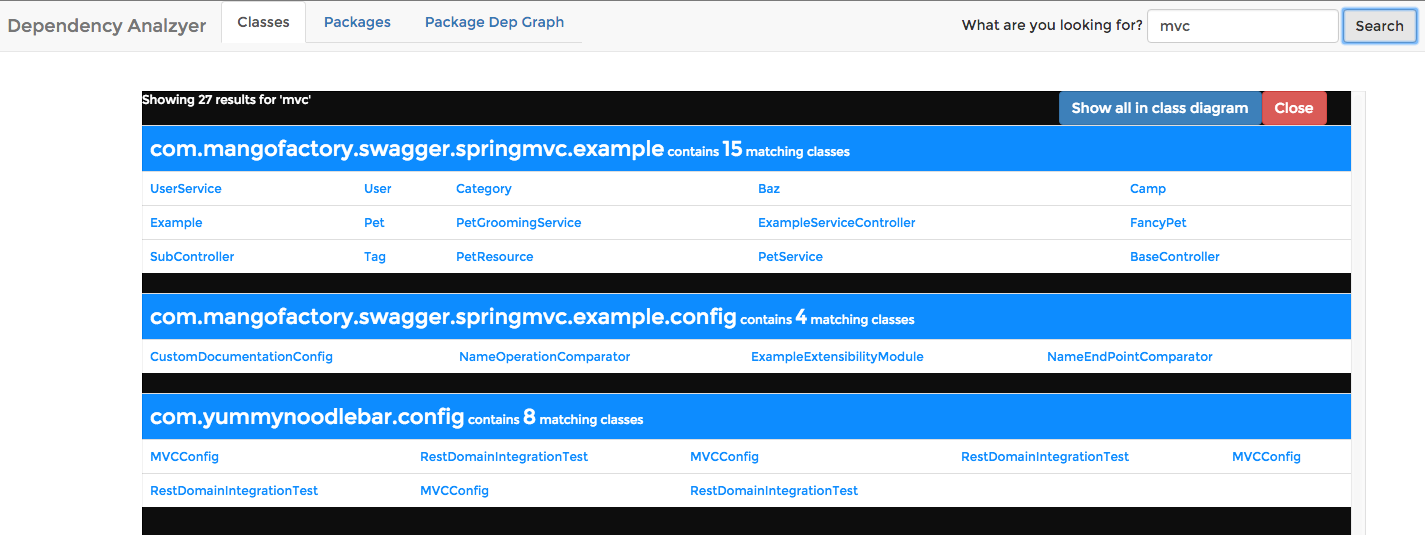
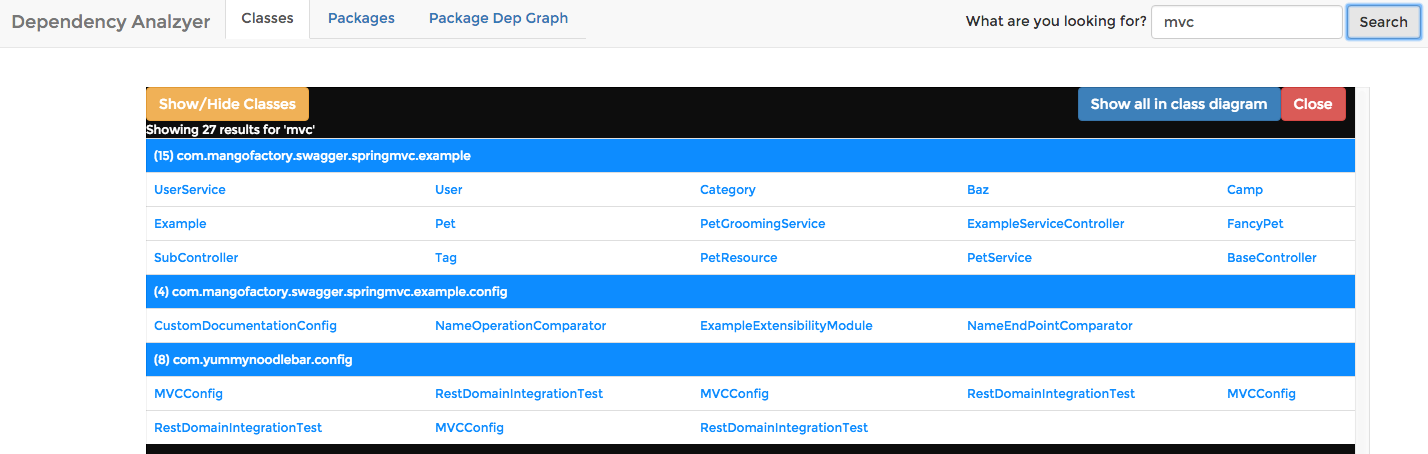
added the ability to click a package name in a search result and display all the classes in that package in the diagrams.  closes #17

diff --git a/app/scripts/classdiagrams.js b/app/scripts/classdiagrams.js
@@ -61,7 +61,7 @@ function displayOnGraph(data) {
 
     });
 
-    paper.fitToContent();
+    paper.fitToContent({ gridWidth : $('#paper').width() });
 
     $("#showingpackage").html("Showing " + classes.length + " results");
 }
@@ -86,7 +86,7 @@ function displayInTable(data) {
 
         var currentClassesInRow = 0;
         
-        tableHtml += "<tr><td class='packageresult' colspan='6'><span class='packagelarge'>(" + classArray.length + ") " + packageNameKey + "</span></td></tr>";
+        tableHtml += "<tr><td class='packageresult' colspan='6'><span class='packagelarge'>(" + classArray.length + ") <a href='#' class='packagesearchlink'>" + packageNameKey + "</a></span></td></tr>";
 
         $.each(classArray, function(curPackage, curClassArray) {
 
@@ -120,6 +120,15 @@ function displayInTable(data) {
 
     $("#toggleclasses").click(function () {
         $(".classtablerow").toggle();
+    });
+
+    // when clicking on a package name, show display all classes in that package
+    $(".packagesearchlink").click(function (evt) {
+        evt.preventDefault();
+        var text = $(event.target).text();
+        console.log("link val=" + text);
+        displayPackageOnGraph(text);
+        $("#search").slideUp(200);
     });
 }
 
@@ -214,6 +223,15 @@ $("#showindiagram").click(function () {
 
 $('#classsearchinput').tooltip();
 
+// displays a given package name on the graph
+function displayPackageOnGraph(packageName) {
+
+    // The query
+    var query= {"statements":[{"statement":"MATCH (p:JavaPackage)-[CONTAINS_CLASS]->(j:JavaClass) WHERE p.name = '" + packageName + "' RETURN j;",
+    "resultDataContents":["graph","row"]}]};
+
+    executeNeo4jQuery(query, displayOnGraph);
+}
 
 // Given an array of Strings, transform it nito a new array of Strings 
 // where the length of any one array element does not exceed the width limit

diff --git a/app/styles/main.scss b/app/styles/main.scss
@@ -139,4 +139,8 @@ body {
     color: #0086FF;
     padding: 30px;
   }
+
+  a.packagesearchlink {
+    color: #ffffff;
+  }
 }
